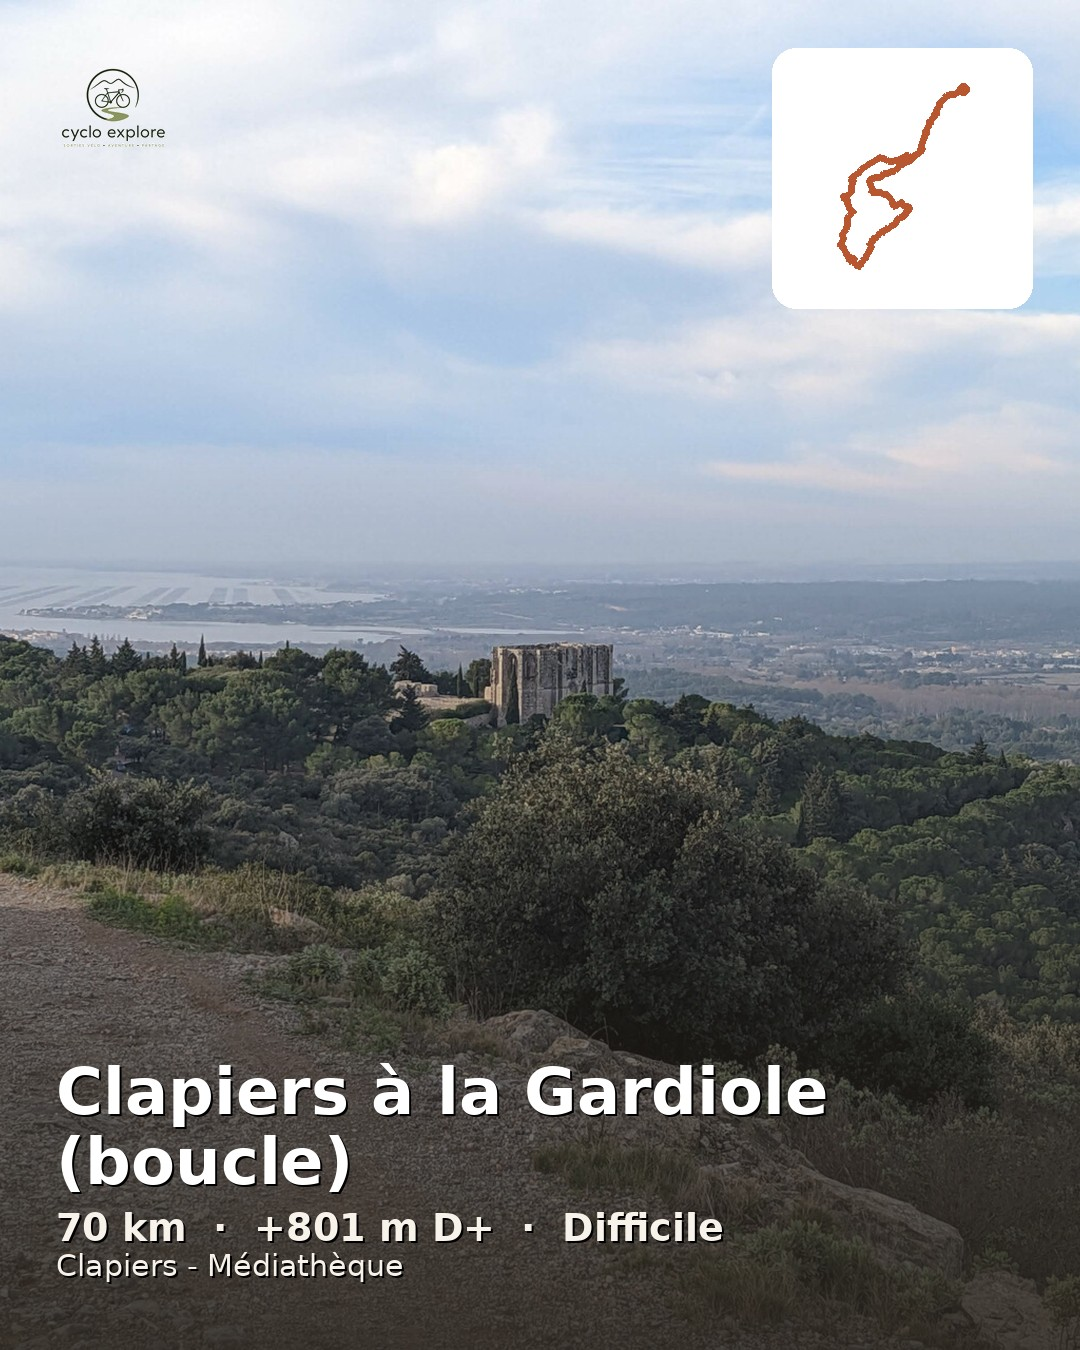
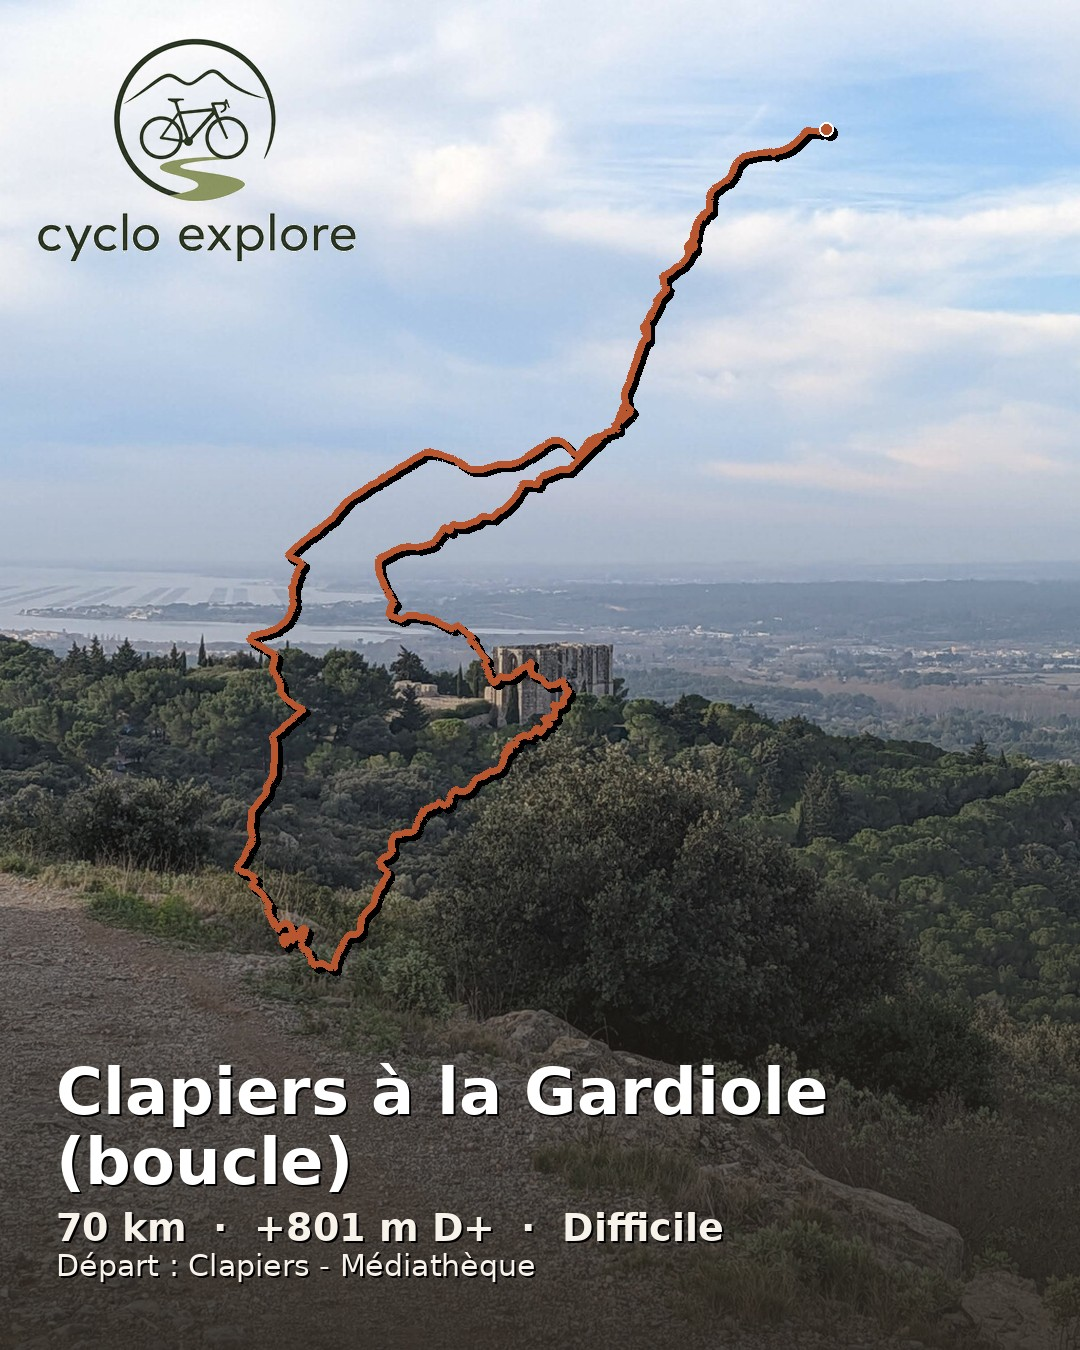
add photos

diff --git a/tools/make_instagram_image.py b/tools/make_instagram_image.py
@@ -179,8 +179,8 @@ def load_logo_with_transparency(path, size):
     gray = logo.convert("L")
     # Le fond du logo est blanc : on le rend transparent par seuillage simple
     # (suffisant pour un logo en aplats de couleur comme celui-ci).
-    mask = gray.point(lambda p: 0 if p > 248 else 255)
-    logo.putalpha(mask)
+#    mask = gray.point(lambda p: 0 if p > 248 else 255)
+#    logo.putalpha(mask)
     return logo
 
 
@@ -207,8 +207,11 @@ def draw_shadowed_text(draw, pos, text, font, fill):
     draw.text((x, y), text, font=font, fill=fill)
 
 
-def draw_track_badge(draw, track, box, color):
-    x0, y0, size = box
+def draw_track_overlay(draw, track, area, color):
+    """Dessine la trace directement sur la photo (pas de carte blanche
+    derrière), avec une ombre portée assortie à celle du texte pour rester
+    lisible quel que soit le fond."""
+    x0, y0, size = area
     if len(track) < 2:
         return
     lats = [p[0] for p in track]
@@ -222,7 +225,7 @@ def draw_track_badge(draw, track, box, color):
     lon_span_m = lon_span * math.cos(math.radians(ref_lat))
     ratio = (lon_span_m / lat_span) if lat_span else 1.0
 
-    pad = size * 0.16
+    pad = size * 0.08
     inner = size - 2 * pad
     if ratio > 1:
         draw_w, draw_h = inner, inner / ratio
@@ -238,9 +241,15 @@ def draw_track_badge(draw, track, box, color):
         y = oy + (max_lat - lat) / lat_span * draw_h
         pts.append((x, y))
 
+    shadow = [(x + 4, y + 4) for x, y in pts]
+    draw.line(shadow, fill=(0, 0, 0, 130), width=8, joint="curve")
     draw.line(pts, fill=color, width=7, joint="curve")
-    draw.ellipse([pts[0][0] - 6, pts[0][1] - 6, pts[0][0] + 6, pts[0][1] + 6], fill=color)
-    draw.ellipse([pts[-1][0] - 6, pts[-1][1] - 6, pts[-1][0] + 6, pts[-1][1] + 6], fill=color)
+
+    for p in (pts[0], pts[-1]):
+        sx, sy = p[0] + 4, p[1] + 4
+        draw.ellipse([sx - 7, sy - 7, sx + 7, sy + 7], fill=(0, 0, 0, 130))
+    for p in (pts[0], pts[-1]):
+        draw.ellipse([p[0] - 7, p[1] - 7, p[0] + 7, p[1] + 7], fill=color, outline=WHITE, width=2)
 
 
 # --- Programme principal --------------------------------------------------
@@ -250,7 +259,7 @@ def main():
     parser.add_argument("ride", help="Dossier de la sortie (ex: rides/tour-du-pic-saint-loup)")
     parser.add_argument("--photo", help="Photo à utiliser (chemin relatif au dossier de la sortie, ou absolu). Défaut : la première de photos/")
     parser.add_argument("--out", help="Fichier de sortie (défaut : instagram.jpg dans le dossier de la sortie)")
-    parser.add_argument("--logo", default=os.path.join(os.path.dirname(__file__), "..", "internal", "site", "static", "logo.png"), help="Chemin du logo à incruster")
+    parser.add_argument("--logo", default=os.path.join(os.path.dirname(__file__), "..", "internal", "site", "static", "logo_withouttext.png"), help="Chemin du logo à incruster")
     args = parser.parse_args()
 
     ride_dir = args.ride
@@ -314,20 +323,19 @@ def main():
     canvas = Image.alpha_composite(canvas, bottom_gradient(CANVAS_W, CANVAS_H))
     draw = ImageDraw.Draw(canvas)
 
-    # --- Logo (haut gauche) ---
-    logo_size = 130
-    try:
-        logo = load_logo_with_transparency(args.logo, logo_size)
-        canvas.alpha_composite(logo, (48, 48))
-    except (FileNotFoundError, OSError):
-        print(f"⚠ logo introuvable ({args.logo}), ignoré")
+    # --- Logo (haut gauche), agrandi ---
+#    logo_size = 350
+#    try:
+#        logo = load_logo_with_transparency(args.logo, logo_size)
+#        canvas.alpha_composite(logo, (20, -30))
+#    except (FileNotFoundError, OSError):
+#        print(f"⚠ logo introuvable ({args.logo}), ignoré")
 
-    # --- Badge trace (haut droite) ---
+    # --- Trace (haut droite), directement sur la photo ---
     if track and len(track) >= 2:
-        badge_size = 260
+        badge_size = 1000
         bx, by = CANVAS_W - badge_size - 48, 48
-        draw.rounded_rectangle([bx, by, bx + badge_size, by + badge_size], radius=24, fill=(255, 255, 255, 235))
-        draw_track_badge(draw, track, (bx, by, badge_size), TERRACOTTA)
+        draw_track_overlay(draw, track, (bx, by, badge_size), TERRACOTTA)
 
     # --- Texte (bas) ---
     font_title = load_font(FONT_BOLD_CANDIDATES, 64)
@@ -348,9 +356,10 @@ def main():
 
     y = CANVAS_H - 72
     if departure:
-        box = draw.textbbox((0, 0), departure, font=font_brand)
+        departure_line = f"Départ : {departure}"
+        box = draw.textbbox((0, 0), departure_line, font=font_brand)
         y -= (box[3] - box[1])
-        draw_shadowed_text(draw, (56, y), departure, font_brand, (247, 242, 234, 230))
+        draw_shadowed_text(draw, (56, y), departure_line, font_brand, (247, 242, 234, 230))
         y -= 14
     if stats_line:
         box = draw.textbbox((0, 0), stats_line, font=font_stats)

diff --git a/rides/exemple-pic-saint-loup/description.md b/rides/exemple-pic-saint-loup/description.md
@@ -1,0 +1,31 @@
+---
+title: Tour du Pic Saint-Loup
+date: 15 juin 2026
+difficulty: Difficile
+departure: Montpellier - Place Zeus
+tags: calcaire, single, ravitaillement à Saint-Mathieu
+surface_paved_km: 18.0
+surface_unpaved_km: 40.0
+---
+
+Une classique du secteur, entre garrigue et petites routes blanches, avec
+la silhouette du Pic Saint-Loup qui ne vous quitte jamais des yeux.
+
+## Le parcours
+
+Départ tranquille par les pistes de la plaine avant d'attaquer les premiers
+faux-plats vers **Saint-Mathieu-de-Tréviers**. La montée principale est
+roulante mais demande un bon braquet de secours.
+
+- Km 0-18 : plaine et petites routes, mise en jambe
+- Km 18-32 : montée principale, gravier compact
+- Km 32-45 : single technique en descente, prudence sur les passages rocheux
+- Km 45-58 : retour par les chemins viticoles
+
+## Ravitaillement
+
+Point d'eau fiable à Saint-Mathieu-de-Tréviers (km 22). Pas de commerce
+ouvert le dimanche après-midi, prévoir de quoi tenir jusqu'au retour.
+
+*Sortie testée par temps sec — après pluie, le single du km 32 devient
+glissant et certains passages calcaires peuvent être impraticables.*

diff --git a/rides/exemple-pic-saint-loup/points.md b/rides/exemple-pic-saint-loup/points.md
@@ -1,0 +1,41 @@
+type: poi
+icon: food
+lat: 43.7950
+lon: 3.8300
+label: Ravitaillement
+note: Point d'eau à Saint-Mathieu-de-Tréviers, boulangerie fermée le dimanche après-midi
+
+---
+
+type: poi
+icon: danger
+lat: 43.8200
+lon: 3.8400
+label: Passage technique
+note: Single rocailleux en descente, prudence après la pluie
+
+---
+
+type: panoramax
+lat: 43.8450
+lon: 3.8100
+picture: REMPLACEZ_PAR_UN_IDENTIFIANT_PANORAMAX
+label: Vue à 360° depuis le sommet
+
+---
+
+type: poi
+icon: bar
+lat: 43.7400
+lon: 3.8700
+label: Le Comptoir du Pic
+note: Terrasse ombragée, bon accueil vélos
+
+---
+
+type: poi
+icon: bike-repair
+lat: 43.7050
+lon: 3.8800
+label: Cycles Montpellier
+note: Réparation et petites pièces

diff --git a/rides/exemple-pic-saint-loup/photos/README.md b/rides/exemple-pic-saint-loup/photos/README.md
@@ -1,0 +1,6 @@
+Placez ici les photos de la sortie (.jpg, .jpeg, .png ou .webp).
+Elles seront automatiquement listées sur la page de la sortie,
+la première servira de vignette sur la page d'accueil.
+
+Ce fichier README.md n'est pas une image : il est ignoré par le générateur
+et peut être supprimé une fois vos photos ajoutées.
